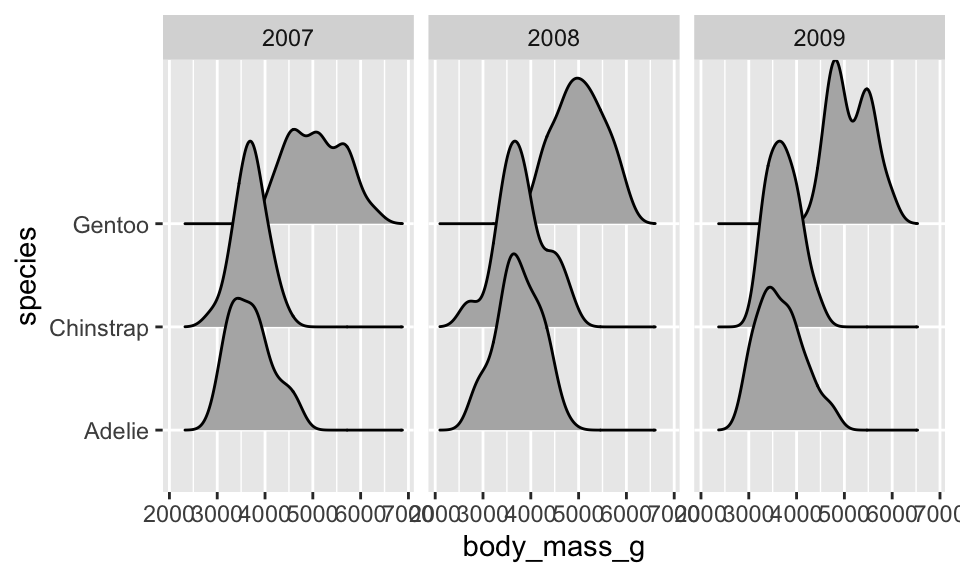
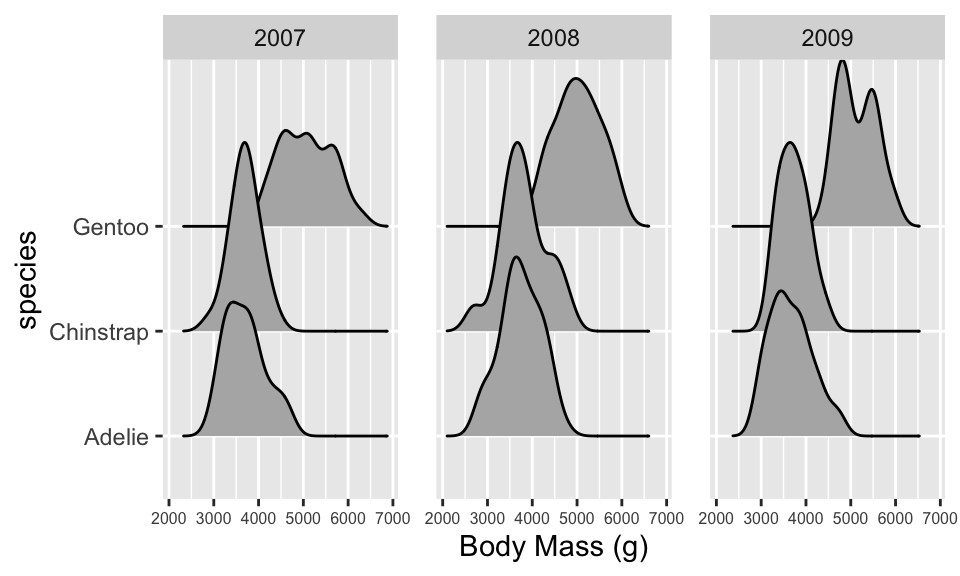
change text for plot

Changed region(s): [[0.0, 0.0312, 1.0, 0.9688], [0.5938, 0.0938, 0.6562, 0.3438], [0.25, 0.0312, 0.3438, 0.0938]]

diff --git a/Week 10 - Inference for ANOVA/Coursework/tutorial/twa_tutorial.html b/Week 10 - Inference for ANOVA/Coursework/tutorial/twa_tutorial.html
@@ -389,6 +389,9 @@ mass.</p>
 <script>if (Tutorial.triggerMathJax) Tutorial.triggerMathJax()</script>
 </div>
 </div>
+<p><strong>Submit a screenshot of the final page of this tutorial to
+<em>both</em> the Week 10 Reading Guide <em>and</em> R tutorial
+assignments!</strong></p>
 <p>
 <script type="application/shiny-prerendered" data-context="server-start">
 knitr::opts_chunk$set(fig.align = "center", 
@@ -540,23 +543,23 @@ learnr:::store_exercise_cache(structure(list(label = "facets", global_setup = st
  
 <script type="application/shiny-prerendered" data-context="server">
 learnr:::question_prerendered_chunk(structure(list(type = "learnr_checkbox", label = "quiz_1", question = structure("Which of the following is important to consider when assessing independence?", html = TRUE, class = c("html", 
-"character")), answers = list(structure(list(id = "lnr_ans_f8097c4", 
+"character")), answers = list(structure(list(id = "lnr_ans_a156660", 
     option = "If the same penguins could be sampled multiple years.", 
     value = "If the same penguins could be sampled multiple years.", 
     label = structure("If the same penguins could be sampled multiple years.", html = TRUE, class = c("html", 
     "character")), correct = TRUE, message = NULL, type = "literal"), class = c("tutorial_question_answer", 
-"tutorial_quiz_answer")), structure(list(id = "lnr_ans_fcf2a8e", 
+"tutorial_quiz_answer")), structure(list(id = "lnr_ans_e3590a9", 
     option = "If the same penguins could be sampled at multiple islands.", 
     value = "If the same penguins could be sampled at multiple islands.", 
     label = structure("If the same penguins could be sampled at multiple islands.", html = TRUE, class = c("html", 
     "character")), correct = FALSE, message = structure("No, island is not a variable we are interested in!", html = TRUE, class = c("html", 
     "character")), type = "literal"), class = c("tutorial_question_answer", 
-"tutorial_quiz_answer")), structure(list(id = "lnr_ans_c1efece", 
+"tutorial_quiz_answer")), structure(list(id = "lnr_ans_202f512", 
     option = "If penguins in each species could share similar information.", 
     value = "If penguins in each species could share similar information.", 
     label = structure("If penguins in each species could share similar information.", html = TRUE, class = c("html", 
     "character")), correct = TRUE, message = NULL, type = "literal"), class = c("tutorial_question_answer", 
-"tutorial_quiz_answer")), structure(list(id = "lnr_ans_9a50774", 
+"tutorial_quiz_answer")), structure(list(id = "lnr_ans_7d30543", 
     option = "If penguin species share similar characteristics", 
     value = "If penguin species share similar characteristics", 
     label = structure("If penguin species share similar characteristics", html = TRUE, class = c("html", 
@@ -569,7 +572,7 @@ learnr:::question_prerendered_chunk(structure(list(type = "learnr_checkbox", lab
 "character")), incorrect = structure("Incorrect", html = TRUE, class = c("html", 
 "character")), message = NULL, post_message = NULL), ids = list(
     answer = "quiz_1-answer", question = "quiz_1"), loading = NULL, 
-    random_answer_order = FALSE, allow_retry = TRUE, seed = 59092742.9724828, 
+    random_answer_order = FALSE, allow_retry = TRUE, seed = 1250722391.41759, 
     options = list()), class = c("learnr_checkbox", "tutorial_question"
 )), session = session)
 </script>
@@ -577,14 +580,14 @@ learnr:::question_prerendered_chunk(structure(list(type = "learnr_checkbox", lab
 
 <script type="application/shiny-prerendered" data-context="server">
 learnr:::question_prerendered_chunk(structure(list(type = "learnr_radio", label = "quiz_2", question = structure("Based on the plot below, is the condition of equal variablility violated?", html = TRUE, class = c("html", 
-"character")), answers = list(structure(list(id = "lnr_ans_85a8657", 
+"character")), answers = list(structure(list(id = "lnr_ans_c2e8d74", 
     option = "No.", value = "No.", label = structure("No.", html = TRUE, class = c("html", 
     "character")), correct = TRUE, message = NULL, type = "literal"), class = c("tutorial_question_answer", 
-"tutorial_quiz_answer")), structure(list(id = "lnr_ans_3204344", 
+"tutorial_quiz_answer")), structure(list(id = "lnr_ans_6bfa790", 
     option = "Yes.", value = "Yes.", label = structure("Yes.", html = TRUE, class = c("html", 
     "character")), correct = FALSE, message = structure("Give the plot another look. Does it appear that the length of the violins of the groups are substantiall different?", html = TRUE, class = c("html", 
     "character")), type = "literal"), class = c("tutorial_question_answer", 
-"tutorial_quiz_answer")), structure(list(id = "lnr_ans_272fab", 
+"tutorial_quiz_answer")), structure(list(id = "lnr_ans_ad5f706", 
     option = "It's difficult to tell. ", value = "It's difficult to tell. ", 
     label = structure("It’s difficult to tell.", html = TRUE, class = c("html", 
     "character")), correct = FALSE, message = structure("Does it appear that the width of the density plots of the groupsare substantially different?", html = TRUE, class = c("html", 
@@ -596,21 +599,21 @@ learnr:::question_prerendered_chunk(structure(list(type = "learnr_radio", label 
 "character")), incorrect = structure("Incorrect", html = TRUE, class = c("html", 
 "character")), message = NULL, post_message = NULL), ids = list(
     answer = "quiz_2-answer", question = "quiz_2"), loading = NULL, 
-    random_answer_order = FALSE, allow_retry = TRUE, seed = 396995406.815135, 
+    random_answer_order = FALSE, allow_retry = TRUE, seed = 1269115269.90902, 
     options = list()), class = c("learnr_radio", "tutorial_question"
 )), session = session)
 </script>
  
 <script type="application/shiny-prerendered" data-context="server">
 learnr:::question_prerendered_chunk(structure(list(type = "learnr_radio", label = "quiz_3", question = structure("Based on the same plot above, is the condition of normally distributed responses violated?", html = TRUE, class = c("html", 
-"character")), answers = list(structure(list(id = "lnr_ans_7d4d838", 
+"character")), answers = list(structure(list(id = "lnr_ans_7adb6be", 
     option = "Yes.", value = "Yes.", label = structure("Yes.", html = TRUE, class = c("html", 
     "character")), correct = FALSE, message = structure("Give the plot another look. This condition is fairly robust to slight differences in shape, but we do need to worry about outliers. Are there large outliers present in any of the groups?", html = TRUE, class = c("html", 
     "character")), type = "literal"), class = c("tutorial_question_answer", 
-"tutorial_quiz_answer")), structure(list(id = "lnr_ans_6a9fea0", 
+"tutorial_quiz_answer")), structure(list(id = "lnr_ans_c6bee2a", 
     option = "No.", value = "No.", label = structure("No.", html = TRUE, class = c("html", 
     "character")), correct = TRUE, message = NULL, type = "literal"), class = c("tutorial_question_answer", 
-"tutorial_quiz_answer")), structure(list(id = "lnr_ans_f7d773c", 
+"tutorial_quiz_answer")), structure(list(id = "lnr_ans_9698d4f", 
     option = "It's difficult to tell.", value = "It's difficult to tell.", 
     label = structure("It’s difficult to tell.", html = TRUE, class = c("html", 
     "character")), correct = FALSE, message = structure("Are there large outliers present in any of the groups?", html = TRUE, class = c("html", 
@@ -622,7 +625,7 @@ learnr:::question_prerendered_chunk(structure(list(type = "learnr_radio", label 
 "character")), incorrect = structure("Incorrect", html = TRUE, class = c("html", 
 "character")), message = NULL, post_message = NULL), ids = list(
     answer = "quiz_3-answer", question = "quiz_3"), loading = NULL, 
-    random_answer_order = FALSE, allow_retry = TRUE, seed = 1703788615.20661, 
+    random_answer_order = FALSE, allow_retry = TRUE, seed = 2027743572.55576, 
     options = list()), class = c("learnr_radio", "tutorial_question"
 )), session = session)
 </script>
@@ -679,24 +682,24 @@ learnr:::store_exercise_cache(structure(list(label = "additive", global_setup = 
 
 <script type="application/shiny-prerendered" data-context="server">
 learnr:::question_prerendered_chunk(structure(list(type = "learnr_radio", label = "quiz_4", question = structure("Based on the ANOVA table above, what would you conclude for the second hypothesis test?", html = TRUE, class = c("html", 
-"character")), answers = list(structure(list(id = "lnr_ans_123217a", 
+"character")), answers = list(structure(list(id = "lnr_ans_5ef03f7", 
     option = "Fail to reject H0, the mean body masss of the years are the same, after accouting for uear of capture.", 
     value = "Fail to reject H0, the mean body masss of the years are the same, after accouting for uear of capture.", 
     label = structure("Fail to reject H0, the mean body masss of the years are the same, after accouting for uear of capture.", html = TRUE, class = c("html", 
     "character")), correct = FALSE, message = structure("Careful! Look at the p-value for the <code>species<\u002fcode> line. Is is small? What does that say about whether it seems reasonable to say that the mean body masss are the same for every species?", html = TRUE, class = c("html", 
     "character")), type = "literal"), class = c("tutorial_question_answer", 
-"tutorial_quiz_answer")), structure(list(id = "lnr_ans_b903181", 
+"tutorial_quiz_answer")), structure(list(id = "lnr_ans_22f878c", 
     option = "There is strong evidence that at least one species has a different mean body mass, after accouting for year of capture.", 
     value = "There is strong evidence that at least one species has a different mean body mass, after accouting for year of capture.", 
     label = structure("There is strong evidence that at least one species has a different mean body mass, after accouting for year of capture.", html = TRUE, class = c("html", 
     "character")), correct = TRUE, message = NULL, type = "literal"), class = c("tutorial_question_answer", 
-"tutorial_quiz_answer")), structure(list(id = "lnr_ans_6122811", 
+"tutorial_quiz_answer")), structure(list(id = "lnr_ans_d3f730f", 
     option = "There is strong evidence that each species has a different mean body mass, after accouting for year of capture.", 
     value = "There is strong evidence that each species has a different mean body mass, after accouting for year of capture.", 
     label = structure("There is strong evidence that each species has a different mean body mass, after accouting for year of capture.", html = TRUE, class = c("html", 
     "character")), correct = FALSE, message = structure("Careful! What is the null hypothesis for an ANOVA? What is the opposite of saying ‘everything is equal’?", html = TRUE, class = c("html", 
     "character")), type = "literal"), class = c("tutorial_question_answer", 
-"tutorial_quiz_answer")), structure(list(id = "lnr_ans_607e26f", 
+"tutorial_quiz_answer")), structure(list(id = "lnr_ans_e9eddcd", 
     option = "There is strong evidence that at least one species has a different mean body mass.", 
     value = "There is strong evidence that at least one species has a different mean body mass.", 
     label = structure("There is strong evidence that at least one species has a different mean body mass.", html = TRUE, class = c("html", 
@@ -709,24 +712,24 @@ learnr:::question_prerendered_chunk(structure(list(type = "learnr_radio", label 
 "character")), incorrect = structure("Incorrect", html = TRUE, class = c("html", 
 "character")), message = NULL, post_message = NULL), ids = list(
     answer = "quiz_4-answer", question = "quiz_4"), loading = NULL, 
-    random_answer_order = FALSE, allow_retry = TRUE, seed = 104217677.45147, 
+    random_answer_order = FALSE, allow_retry = TRUE, seed = 735167287.657661, 
     options = list()), class = c("learnr_radio", "tutorial_question"
 )), session = session)
 </script>
  
 <script type="application/shiny-prerendered" data-context="server">
 learnr:::question_prerendered_chunk(structure(list(type = "learnr_radio", label = "quiz_5", question = structure("What should your next step be?", html = TRUE, class = c("html", 
-"character")), answers = list(structure(list(id = "lnr_ans_4ba7c61", 
+"character")), answers = list(structure(list(id = "lnr_ans_ad37f88", 
     option = "Nothing! We've finished our analysis! ", value = "Nothing! We've finished our analysis! ", 
     label = structure("Nothing! We’ve finished our analysis!", html = TRUE, class = c("html", 
     "character")), correct = FALSE, message = structure("Careful! Did you decide that year needed to be included in the final model?", html = TRUE, class = c("html", 
     "character")), type = "literal"), class = c("tutorial_question_answer", 
-"tutorial_quiz_answer")), structure(list(id = "lnr_ans_f8c36d9", 
+"tutorial_quiz_answer")), structure(list(id = "lnr_ans_5eb51ee", 
     option = "Fit a one-way ANOVA model with only species as an explanatory variable.", 
     value = "Fit a one-way ANOVA model with only species as an explanatory variable.", 
     label = structure("Fit a one-way ANOVA model with only species as an explanatory variable.", html = TRUE, class = c("html", 
     "character")), correct = TRUE, message = NULL, type = "literal"), class = c("tutorial_question_answer", 
-"tutorial_quiz_answer")), structure(list(id = "lnr_ans_d6ae837", 
+"tutorial_quiz_answer")), structure(list(id = "lnr_ans_a84914f", 
     option = "Fit a one-way ANOVA model with only year as an explanatory variable.", 
     value = "Fit a one-way ANOVA model with only year as an explanatory variable.", 
     label = structure("Fit a one-way ANOVA model with only year as an explanatory variable.", html = TRUE, class = c("html", 
@@ -739,7 +742,7 @@ learnr:::question_prerendered_chunk(structure(list(type = "learnr_radio", label 
 "character")), incorrect = structure("Incorrect", html = TRUE, class = c("html", 
 "character")), message = NULL, post_message = NULL), ids = list(
     answer = "quiz_5-answer", question = "quiz_5"), loading = NULL, 
-    random_answer_order = FALSE, allow_retry = TRUE, seed = 1175043994.45283, 
+    random_answer_order = FALSE, allow_retry = TRUE, seed = 452497307.78929, 
     options = list()), class = c("learnr_radio", "tutorial_question"
 )), session = session)
 </script>
